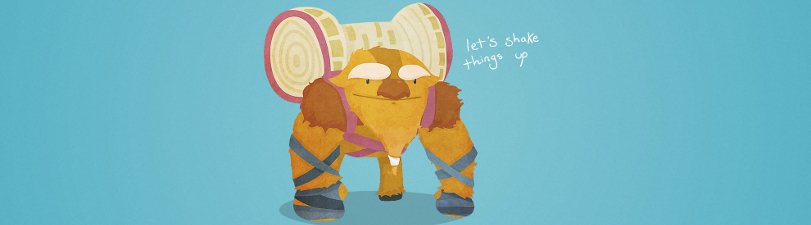
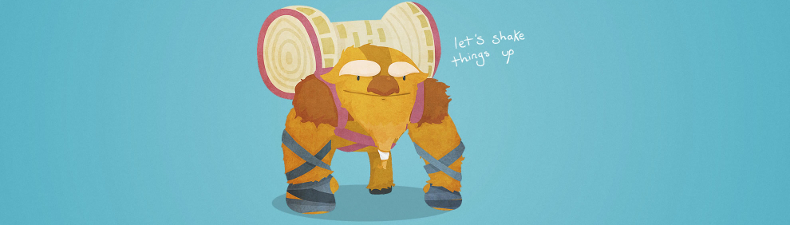
stylin

Changed region(s): [[0.3342, 0.0, 0.6684, 1.0], [0.4861, 0.0, 0.5468, 0.1556], [0.4253, 0.4044, 0.5165, 0.4667]]

diff --git a/assets/styles.scss b/assets/styles.scss
@@ -10,8 +10,8 @@ body {
   font-size: 1em;
 }
 
-$banner_width: 811px;
-$banner_height: 175px;
+$banner_width: 850px;
+$banner_height: 185px;
 $container_padding: 20px;
 $container_width: $banner_width - ($container_padding * 2);
 div.container {
@@ -33,7 +33,7 @@ div.header {
     width: $container_width;
     height: $banner_height;
     padding: $container_padding;
-    text-align: left;
+    text-align: right;
     color: #000;
     background-image: url('banner1.jpg');
     a {
@@ -80,7 +80,7 @@ div.content {
 li.blogItem {
     color: #333;
     width: 90%;
-    text-align: center;
+    text-align: left;
     list-style-type: none;
     
     a {

diff --git a/tag/creative/index.html b/tag/creative/index.html
@@ -12,7 +12,7 @@
     <body>
         <div class="container">
             <div class="header">
-                <h2>Austin's Blog</h2>
+                <h1>Austin's Blog</h1>
                 <a href="/">Home</a> |
                 <a href="/about.html">About </a>
             </div>
@@ -31,7 +31,7 @@
             </div>
 
 
-<h3>Posts Tagged &ldquo;creative&rdquo;</h3>
+<h2>Posts Tagged &ldquo;creative&rdquo;</h2>
 
 <ul>
   

diff --git a/tag/essay/index.html b/tag/essay/index.html
@@ -12,7 +12,7 @@
     <body>
         <div class="container">
             <div class="header">
-                <h2>Austin's Blog</h2>
+                <h1>Austin's Blog</h1>
                 <a href="/">Home</a> |
                 <a href="/about.html">About </a>
             </div>
@@ -31,7 +31,7 @@
             </div>
 
 
-<h3>Posts Tagged &ldquo;essay&rdquo;</h3>
+<h2>Posts Tagged &ldquo;essay&rdquo;</h2>
 
 <ul>
   

diff --git a/tag/dota/index.html b/tag/dota/index.html
@@ -12,7 +12,7 @@
     <body>
         <div class="container">
             <div class="header">
-                <h2>Austin's Blog</h2>
+                <h1>Austin's Blog</h1>
                 <a href="/">Home</a> |
                 <a href="/about.html">About </a>
             </div>
@@ -31,7 +31,7 @@
             </div>
 
 
-<h3>Posts Tagged &ldquo;dota&rdquo;</h3>
+<h2>Posts Tagged &ldquo;dota&rdquo;</h2>
 
 <ul>
   

diff --git a/tag/food/index.html b/tag/food/index.html
@@ -12,7 +12,7 @@
     <body>
         <div class="container">
             <div class="header">
-                <h2>Austin's Blog</h2>
+                <h1>Austin's Blog</h1>
                 <a href="/">Home</a> |
                 <a href="/about.html">About </a>
             </div>
@@ -31,7 +31,7 @@
             </div>
 
 
-<h3>Posts Tagged &ldquo;food&rdquo;</h3>
+<h2>Posts Tagged &ldquo;food&rdquo;</h2>
 
 <ul>
   

diff --git a/tag/misc/index.html b/tag/misc/index.html
@@ -12,7 +12,7 @@
     <body>
         <div class="container">
             <div class="header">
-                <h2>Austin's Blog</h2>
+                <h1>Austin's Blog</h1>
                 <a href="/">Home</a> |
                 <a href="/about.html">About </a>
             </div>
@@ -31,7 +31,7 @@
             </div>
 
 
-<h3>Posts Tagged &ldquo;misc&rdquo;</h3>
+<h2>Posts Tagged &ldquo;misc&rdquo;</h2>
 
 <ul>
   

diff --git a/tag/csl/index.html b/tag/csl/index.html
@@ -12,7 +12,7 @@
     <body>
         <div class="container">
             <div class="header">
-                <h2>Austin's Blog</h2>
+                <h1>Austin's Blog</h1>
                 <a href="/">Home</a> |
                 <a href="/about.html">About </a>
             </div>
@@ -31,7 +31,7 @@
             </div>
 
 
-<h3>Posts Tagged &ldquo;csl&rdquo;</h3>
+<h2>Posts Tagged &ldquo;csl&rdquo;</h2>
 
 <ul>
   

diff --git a/_includes/head.html b/_includes/head.html
@@ -12,7 +12,7 @@
     <body>
         <div class="container">
             <div class="header">
-                <h2>Austin's Blog</h2>
+                <h1>Austin's Blog</h1>
                 <a href="{{ site.baseurl }}/">Home</a> |
                 <a href="{{ site.baseurl }}/about.html">About </a>
             </div>

diff --git a/index.html b/index.html
@@ -4,7 +4,7 @@ title: Home
 ---
 {% include the_tag_list.html %}
 
-            <h3>All Posts</h3>
+            <h2>All Posts</h2>
             <ul>
               {% for post in site.posts %}
                 <li class="blogItem">

diff --git a/_layouts/tag_index.html b/_layouts/tag_index.html
@@ -3,7 +3,7 @@ layout: default
 ---
 {% include the_tag_list.html %}
 
-<h3>{{page.title}}</h3>
+<h2>{{page.title}}</h2>
 
 <ul>
   {% for post in site.posts %}
